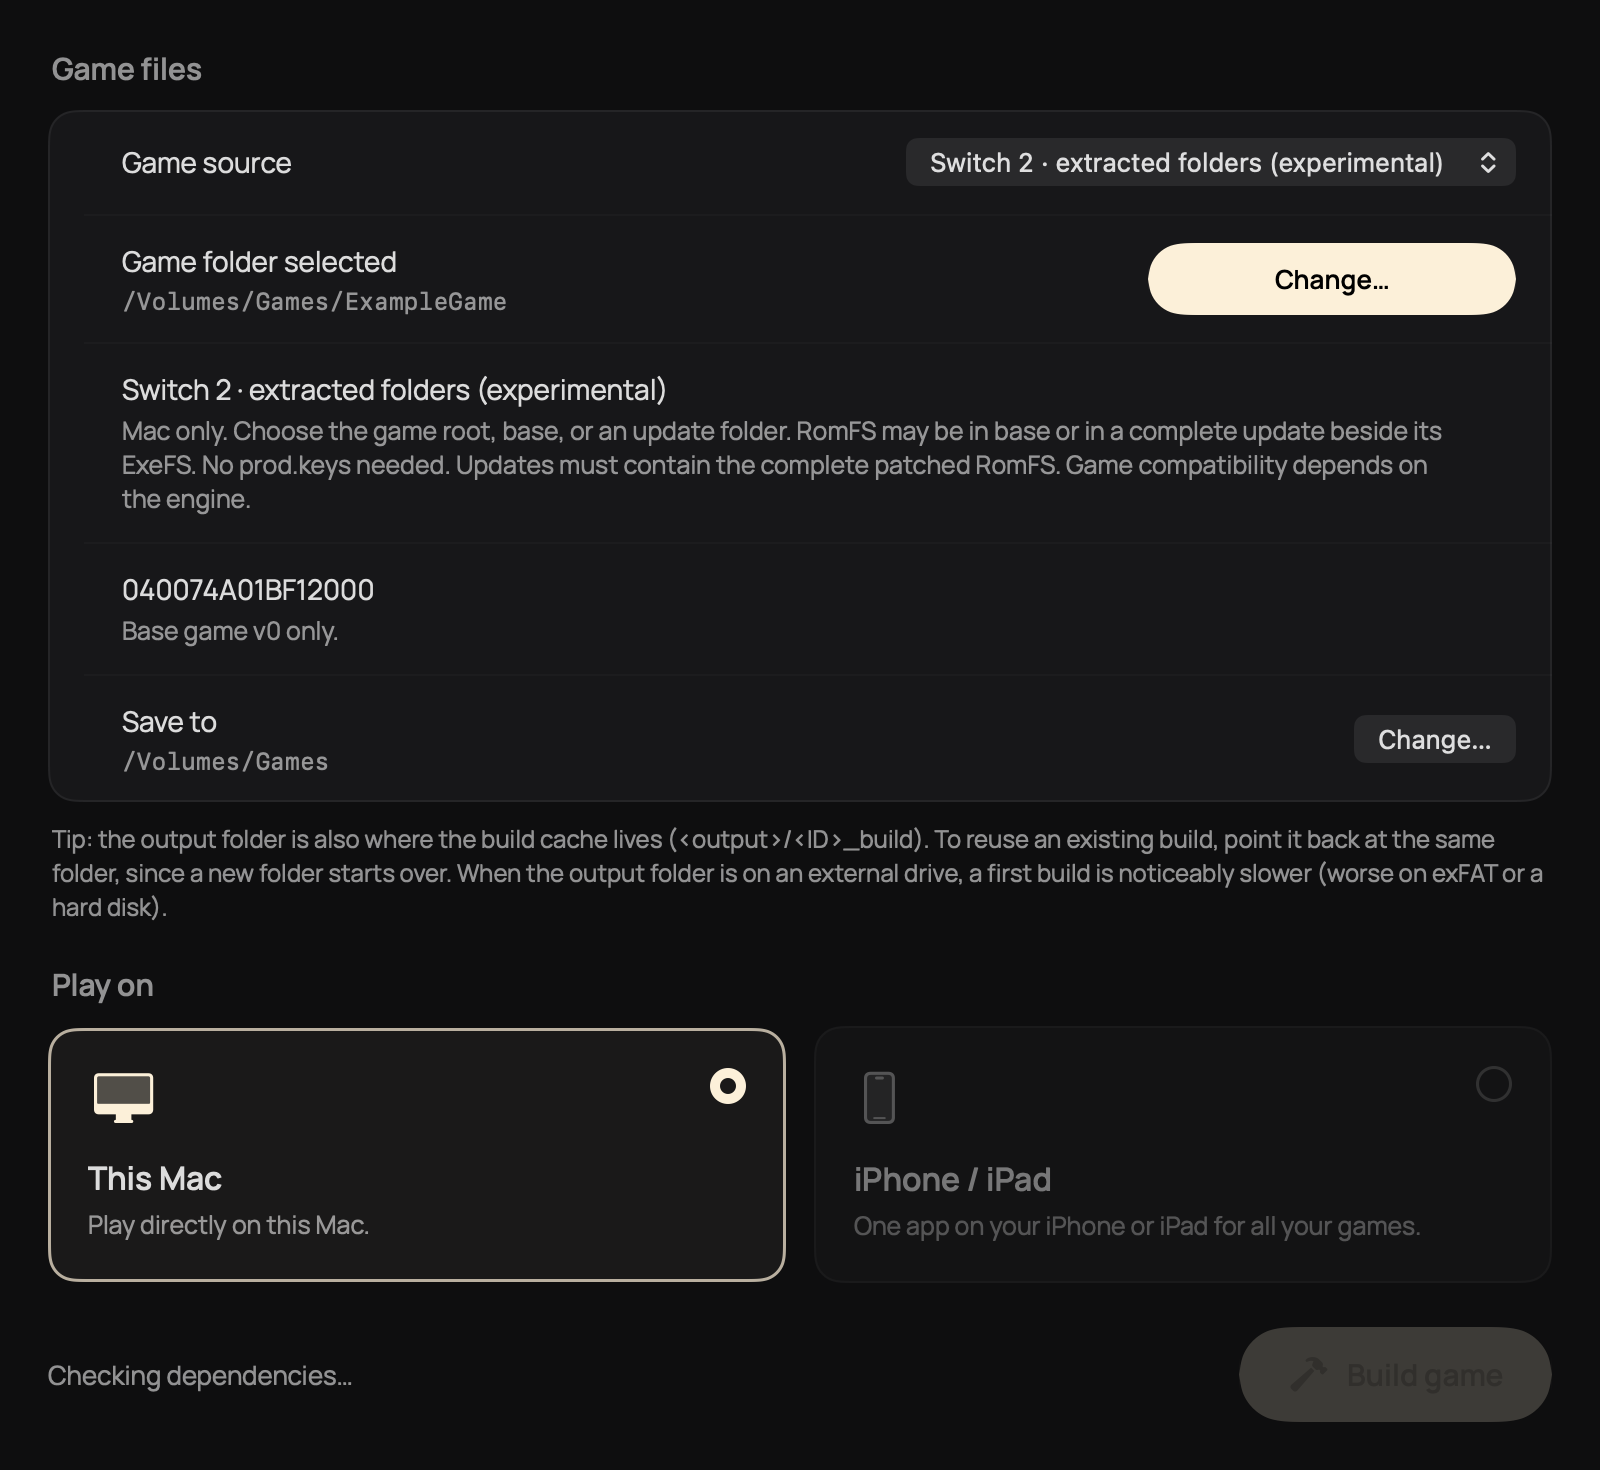
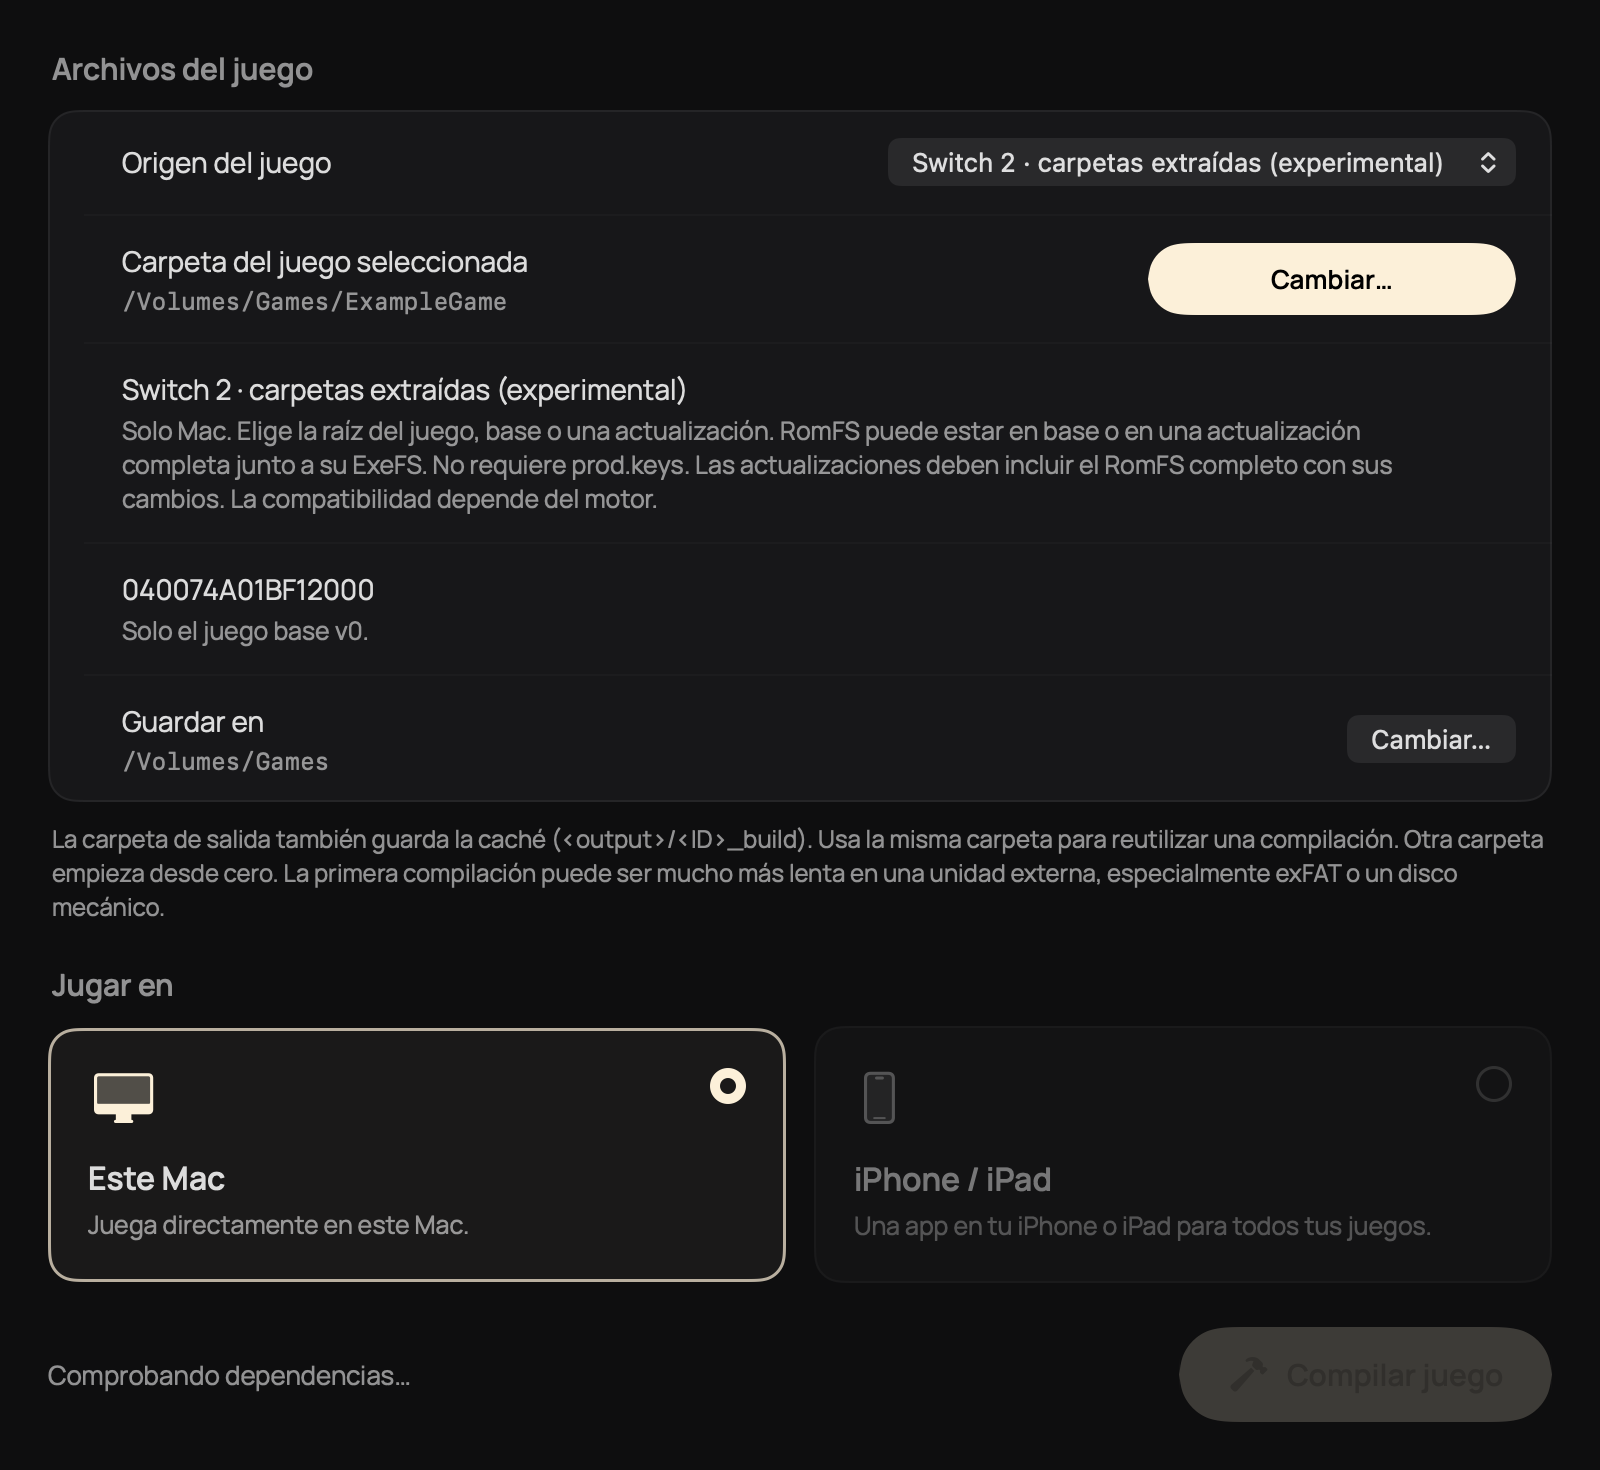
Show Spanish NX24Apple interface and direct app launch on the fork homepage

diff --git a/README.md b/README.md
@@ -11,15 +11,22 @@ Fork personal de [NX2Apple](https://github.com/LNPANDY/NX2Apple), mantenido por 
 - Selección desde la raíz del juego, `base`, `updates`, una versión o sus carpetas ExeFS/RomFS.
 - Mensajes claros si faltan archivos, la estructura está incompleta o el motor no tiene un perfil para el juego.
 - Flujo de compilación de apps para Mac y conservación de la entrada NSP/XCI de Switch 1.
-- Traducción de la interfaz al español y nombre NX24Apple en preparación. La descarga actual conserva todavía el nombre NX2Apple Experimental.
+- Interfaz en español, con detección del idioma del sistema y selector manual en Ajustes. El nombre visible de la app es NX24Apple.
+- Uso automático del motor incluido del fork, aunque una instalación anterior haya dejado seleccionado Experimental. El motor se actualiza al descargar una nueva versión de este fork.
 
 ## Capturas de la app
 
-Estas capturas muestran la integración de carpetas de este fork, antes de añadir la traducción al español y el nombre NX24Apple.
+Capturas nativas de la interfaz en español, generadas con datos de ejemplo para revisar el diseño. La biblioteca ilustrada no indica compatibilidad verificada de cada juego.
+
+![Biblioteca de NX24Apple con la interfaz en español](screenshots/library-es.png)
 
 ![Selección de carpetas extraídas para compilar una app Mac](screenshots/folder-build.png)
 
 ![Mensaje de validación cuando falta una carpeta necesaria](screenshots/folder-validation.png)
+
+![Ajustes del motor incluido del fork](screenshots/included-engine-es.png)
+
+![Selector de idioma con Español disponible](screenshots/language-es.png)
 
 ## Donkey Kong Bananza en un M3 Pro
 
@@ -31,10 +38,11 @@ Captura aportada por @josellopz en su MacBook Pro M3 Pro. El contador muestra ap
 
 1. Descarga el ZIP para macOS arm64 desde las [versiones de este fork](https://github.com/josellopz/NX2Apple/releases/latest).
 2. Descomprime la carpeta completa.
-3. Cierra cualquier otra copia de NX2Apple y abre **Open NX2Apple Experimental.command**, junto a la app. El lanzador selecciona el motor corregido que viene incluido.
-4. En la pantalla de compilación, elige el origen experimental de carpetas y selecciona tu juego.
+3. Cuando termine cualquier compilación en curso, cierra la otra copia de NX2Apple o NX24Apple y abre **NX24Apple.app**. La propia app selecciona el motor corregido incluido. **Abrir NX24Apple.command** es un acceso alternativo que comprueba si hay otra instancia abierta.
+4. En **Compilar juego**, elige el origen experimental de carpetas y selecciona tu juego.
+5. Para cambiar el idioma manualmente, usa **Ajustes > Idioma > Español**.
 
-La app comparte biblioteca y configuración con NX2Apple instalado. El paquete usa firma ad hoc y no está notarizado por Apple. Incluye Python y herramientas de compilación. No contiene juegos, claves, volcados ni apps de juegos generadas.
+La app comparte biblioteca y configuración con NX2Apple instalado. El cambio de nombre conserva el identificador de la app y las rutas existentes. Los registros internos del motor y el idioma de los juegos se gestionan por separado. El paquete usa firma ad hoc y no está notarizado por Apple. Incluye Python y herramientas de compilación. No contiene juegos, claves, volcados ni apps de juegos generadas.
 
 ## Requisitos y límites
 
